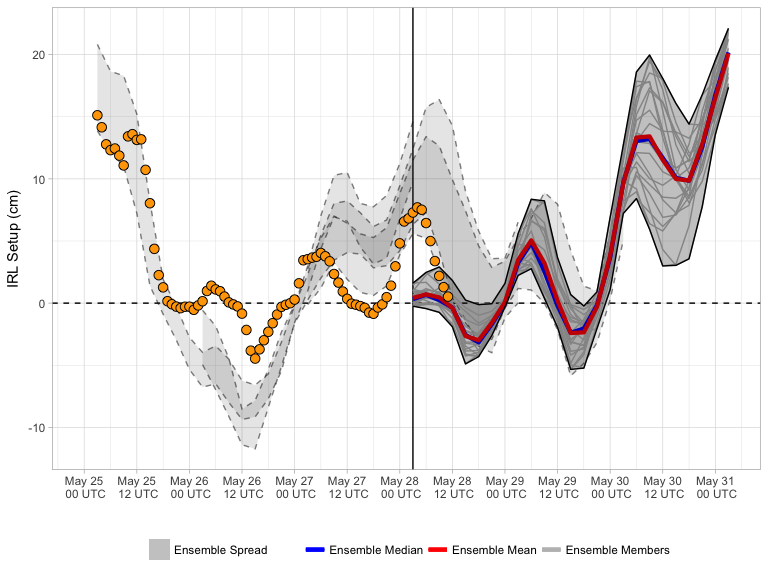
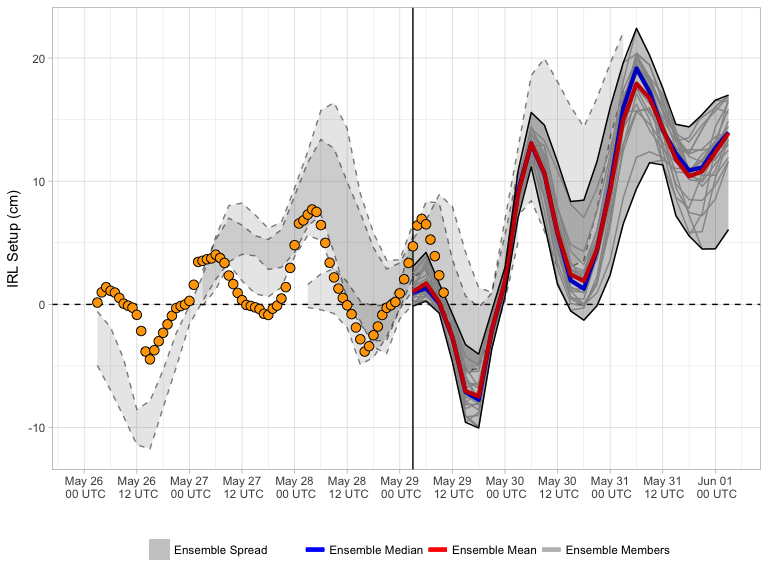
20170529 forecast update

Changed region(s): [[0.0625, 0.0312, 0.9688, 0.7812], [0.9062, 0.8125, 0.9688, 0.8438], [0.0312, 0.0938, 0.0625, 0.125]]

diff --git a/docs/index.md b/docs/index.md
@@ -3,7 +3,7 @@ Current Forecast
 
 [![](img/raw_setup.png)](https://bhlmn.github.io/IRLSetup/img/raw_setup.png)
 
-> Forecast valid 2017-05-28 07:24:36.
+> Forecast valid 2017-05-29 06:48:22.
 
 Explanation
 -----------
@@ -15,7 +15,7 @@ water elevation in the northern IRL (near Titusville), and negative
 setup indicates the increase elevation in the southern IRL (near
 Sebastian). The x-axis displays the date and time in UTC. The solid
 vertical line represents the beginning of the most recent ensemble
-forecast (currently 2017-05-27 18:00:00). For this most recent forecast,
+forecast (currently 2017-05-28 18:00:00). For this most recent forecast,
 the ensemble spread (grey shading) is bound by solid black lines, with
 individual members represented by faint grey lines. The ensemble mean
 and median for this are represented by the red and blue curves,
